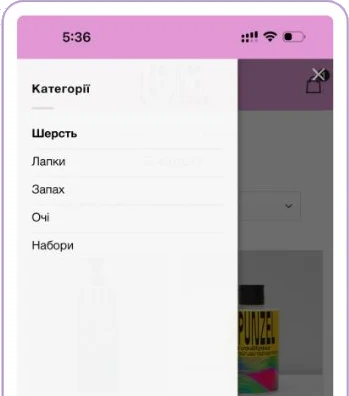
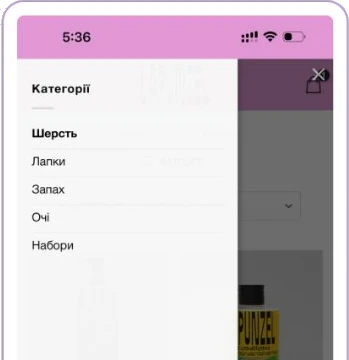
Lapunzel Client ask: category and severity labels, new screenshots
Claude-Session: https://claude.ai/code/session_01UyFrCoty7Hkm3P6xPrA1o8

diff --git a/src/data/cases.ts b/src/data/cases.ts
@@ -406,9 +406,9 @@ const lapunzel: Partial<CaseData> = {
       lede: 'She believed shoppers were wary of the site, and that vegan cosmetics weren’t getting credit for their higher price. Both were plausible, and neither was tested.\nI started with what we could check ourselves: a heuristic review of the old site. It turned up 35 issues, and three of them shaped the redesign.',
       blocks: [{ type: 'pull', text: 'So before anyone opened Figma, I proposed we test the rest.' }],
       visual: { layout: 'single', items: [{ label: 'Three issues from the heuristic review', spec: '', alt: 'Three issues from the heuristic review of the old site: filters open categories (critical, 4 of 4), delivery information only in the footer (moderate, 2 of 4), and no average rating on reviews (moderate, 2 of 4). Screenshots are of the old site in its original Ukrainian.', finds: [
-        { icon: 'layout-grid', cat: 'Consistency and standards', level: 'critical', score: '4 of 4', title: 'Filters open categories', text: 'Tapping Filters opened the category list instead of filters.', src: '/images/lap-find-menu.webp', pos: '50% 20%', alt: 'Old mobile site: the category list that opens from Filters (in Ukrainian)' },
-        { icon: 'help-circle', cat: 'Help and documentation', level: 'moderate', score: '2 of 4', title: 'Delivery info only in the footer', text: 'Nothing about delivery or payment on the product page. Shoppers had to look for it in the footer.', src: '/images/lap-find-footer.webp', pos: '50% 45%', alt: 'Old site footer, For customers: payment and delivery, contacts, user agreement, FAQ (in Ukrainian)' },
-        { icon: 'eye', cat: 'System status visibility', level: 'moderate', score: '2 of 4', title: 'No average rating', text: 'Reviews had stars, but the product never showed an overall rating.', src: '/images/lap-find-review.webp', pos: '8% 60%', alt: 'Old product page: a single five-star review (in Ukrainian)' },
+        { icon: 'layout-grid', cat: 'Consistency and standards', level: 'critical', score: '4 of 4', title: 'Filters open categories', text: 'Tapping Filters opened the category list instead of filters.', src: '/images/lap-find-menu.webp', pos: '50% 0%', alt: 'Old mobile site: the category list that opens from Filters (in Ukrainian)' },
+        { icon: 'help-circle', cat: 'Help and documentation', level: 'moderate', score: '2 of 4', title: 'Delivery info only in the footer', text: 'Nothing about delivery or payment on the product page. Shoppers had to look for it in the footer.', src: '/images/lap-find-footer.webp', pos: '50% 0%', alt: 'Old site footer, For customers: payment and delivery, contacts, user agreement, FAQ (in Ukrainian)' },
+        { icon: 'eye', cat: 'System status visibility', level: 'moderate', score: '2 of 4', title: 'No average rating', text: 'Reviews had stars, but the product never showed an overall rating.', src: '/images/lap-find-review.webp', pos: '50% 0%', alt: 'Old product page: a single five-star review (in Ukrainian)' },
       ] }] } },
 
     { id: 'team', nav: 'Collaboration', title: ['A new team,', 'and a project to run'],

diff --git a/src/styles/case.css b/src/styles/case.css
@@ -1182,16 +1182,16 @@ html:has(.cp-story.brand), body:has(.cp-story.brand) { background: #0b0b0a; }
 /* Findings: three issue cards, text first, then the old-site screenshot */
 .ph.finds, .stage .ph.finds { background: none; overflow: visible; padding: clamp(14px, 1.8vw, 24px); display: flex; flex-direction: column; align-items: stretch; justify-content: center; gap: clamp(8px, 1.4vh, 14px); transform: none; transition: none; text-align: left; color: var(--ink); }
 .fd { display: contents; }
-.fd-c { --lv: #e8482c; flex: 1 1 0; min-height: 0; max-height: 240px; display: grid; grid-template-columns: minmax(0, 1fr) clamp(130px, 38%, 250px); gap: clamp(12px, 1.4vw, 20px); padding: 10px 10px 10px clamp(16px, 1.8vw, 24px); background: #fff; border-radius: 20px; box-shadow: 0 1px 3px rgba(17,17,17,.05), 0 4px 14px rgba(17,17,17,.05); }
+.fd-c { --lv: #e8482c; flex: 1 1 0; min-height: 0; max-height: 240px; display: grid; grid-template-columns: minmax(0, 1fr) clamp(140px, 40%, 270px); gap: clamp(12px, 1.4vw, 20px); padding: 10px 10px 10px clamp(16px, 1.8vw, 24px); background: #fff; border-radius: 20px; box-shadow: 0 1px 3px rgba(17,17,17,.05), 0 4px 14px rgba(17,17,17,.05); }
 .fd-c[data-lv="serious"] { --lv: #f08a2b; }
 .fd-c[data-lv="moderate"] { --lv: #f2b531; }
 .fd-t { display: flex; flex-direction: column; justify-content: center; gap: 8px; min-width: 0; }
-.fd-h { display: flex; align-items: center; justify-content: space-between; gap: 10px; flex-wrap: wrap; }
-.fd-cat { margin: 0; display: flex; align-items: center; gap: 8px; max-width: none; font-size: clamp(12px, .95vw, 13.5px); letter-spacing: -.01em; color: var(--muted); }
-.fd-cat .ic { width: 24px; height: 24px; }
-.fd-cat .ic svg { width: 13px; height: 13px; fill: currentColor; }
+.fd-h { display: flex; align-items: center; justify-content: flex-start; gap: 8px; flex-wrap: wrap; }
+.fd-cat { padding: 4px 12px 4px 4px; gap: 8px; }
+.fd-cat .ic { width: 22px; height: 22px; }
+.fd-cat .ic svg { width: 12px; height: 12px; fill: currentColor; }
+.fd-sev::before { content: ''; width: 8px; height: 8px; border-radius: 50%; background: var(--lv); }
 .fd-tag { display: inline-flex; align-items: center; gap: 7px; padding: 5px 12px 5px 10px; border-radius: 999px; background: #fff; box-shadow: 0 1px 2px rgba(17,17,17,.08), 0 2px 8px rgba(17,17,17,.08); font-size: 12px; font-weight: 600; letter-spacing: -.015em; color: var(--ink); white-space: nowrap; }
-.fd-tag::before { content: ''; width: 8px; height: 8px; border-radius: 50%; background: var(--lv); }
 .fd-c h3 { margin: 4px 0 0; font-size: clamp(17px, 1.6vw, 22px); font-weight: 700; letter-spacing: -.03em; line-height: 1.15; color: var(--ink); }
 .fd-d { margin: 0; max-width: none; font-size: clamp(13px, 1vw, 14.5px); line-height: 1.45; letter-spacing: -.01em; color: var(--muted); }
 .fd-i { border-radius: 12px; background: #f6f6f4; overflow: hidden; min-height: 0; }
